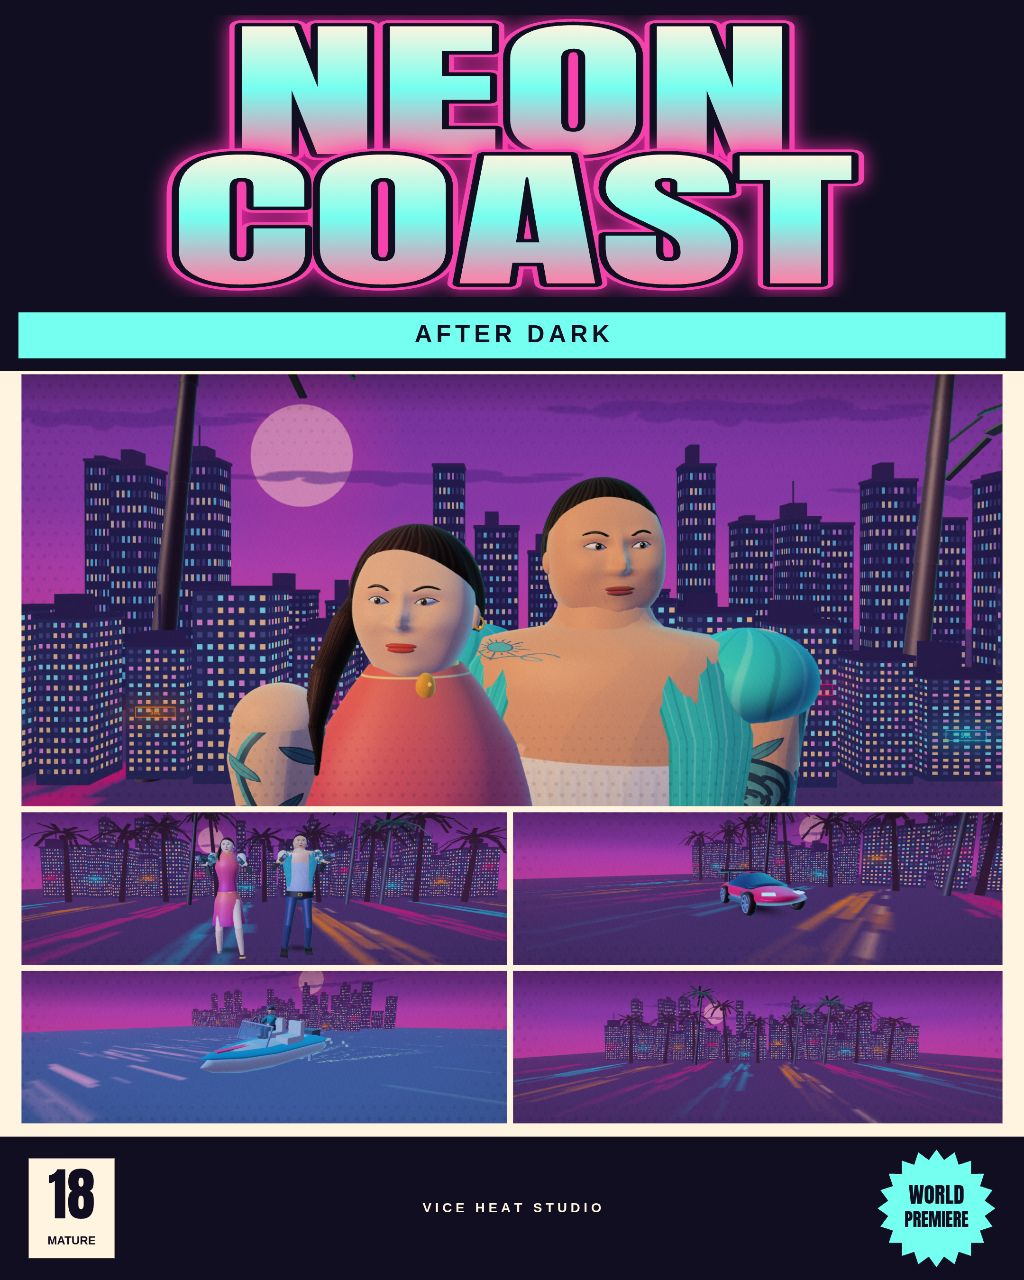
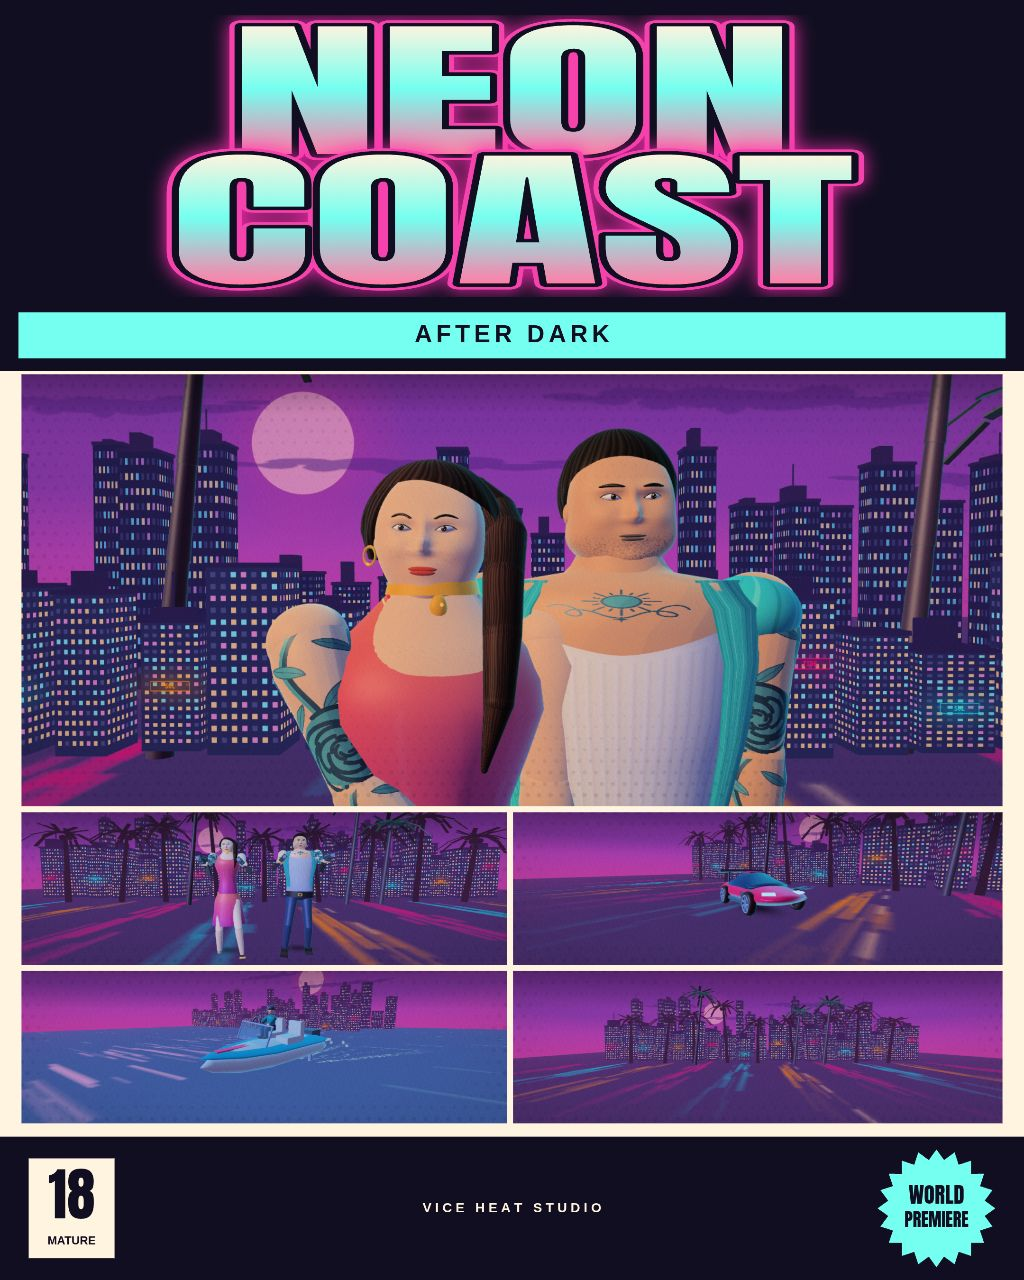
Round 9 fix: masculine read for the man (tank + draped shirt, stubble, darker lips), fuller hair and tailored dress for the woman, wider close-up framing

Changed region(s): [[0.0, 0.2812, 1.0, 0.6875]]

diff --git a/app/src/duo3d.js b/app/src/duo3d.js
@@ -8,7 +8,7 @@ const goldSpark = emissiveMaterial([1, 0.80, 0.39], 1.5);
 const fabric = { color: [1, 1, 1], band: 5, rimBoost: 1.1 };
 const MAT = {
   skin: { her: pigment(SKIN.her, 1.2), him: pigment(SKIN.him, 1.2) },
-  lip: { her: pigment([0.63, 0.19, 0.15]), him: pigment([0.38, 0.14, 0.12]) },
+  lip: { her: pigment([0.63, 0.19, 0.15]), him: pigment([0.245, 0.163, 0.131]) },
   hair: { her: pigment([0.11, 0.06, 0.05], 0.6), him: pigment([0.07, 0.05, 0.04], 0.6) },
   gold,
   gunmetal: { color: [0.15, 0.17, 0.22], rimBoost: 1.8 },
@@ -162,13 +162,11 @@ function chestTattooTexture(tone = SKIN.him) {
   return makeCanvas(1024, 1024, ctx => {
     ctx.scale(2, 2);
     paintSkin(ctx, tone);
-    // Front is U = 0.25. Arc-length V and the flipped canvas upload map
-    // chest y=1.392–1.502 to canvas rows ~356–193.
+    // Place the sun at front U = 0.25, above the tank scoop.
     ctx.save();
-    ctx.translate(256, 512 * 0.44);
-    ctx.scale(0.55, 0.55);
-    ctx.translate(-256, -512 * 0.44);
-    ctx.translate(0, 153);
+    ctx.translate(128, 211);
+    ctx.scale(0.46, 0.54);
+    ctx.translate(-128, -106);
     const x = 128;
     const y = 106;
     ctx.fillStyle = TEAL;
@@ -264,11 +262,12 @@ function skinTexture(tone, stubble = false) {
     };
     dots(26, 32, 85, 0.10, 0.12);
     dots(5400, 0.6, 2, 0.24, 0.23);
-    for (let i = 0; i < (stubble ? 3500 : 190); i++) {
+    for (let i = 0; i < (stubble ? 7800 : 190); i++) {
       const x = stubble ? random() * w : (0.14 + random() * 0.22) * w;
-      const y = (stubble ? 0.61 + random() * 0.27 : 0.49 + random() * 0.13) * h;
-      ctx.fillStyle = stubble ? 'rgba(47,29,27,0.20)' : 'rgba(112,54,36,0.24)';
-      ctx.fillRect(x, y, 0.7 + random(), 0.8 + random());
+      const y = (stubble ? 0.62 + random() * 0.26 : 0.49 + random() * 0.13) * h;
+      const density = stubble ? Math.min(1, (y / h - 0.62) * 18, (0.88 - y / h) * 22) : 1;
+      ctx.fillStyle = stubble ? `rgba(49,38,34,${0.57 * density})` : 'rgba(112,54,36,0.24)';
+      ctx.fillRect(x, y, 0.7 + random() * 1.4, 0.8 + random() * 1.4);
     }
   });
 }
@@ -385,15 +384,15 @@ function faceSurface(u, v, strongJaw) {
   const height = Math.cos(v), radial = Math.sin(v);
   const y = height * 0.55;
   const jaw = bump(0, y, 0, -0.32, 1, 0.17);
-  const x = Math.cos(u) * radial * (0.424 + jaw * (strongJaw ? 0.027 : -0.023));
+  const x = Math.cos(u) * radial * (0.424 + jaw * (strongJaw ? 0.084 : -0.023));
   const front = Math.sin(u);
   let z = radial * (front > 0 ? Math.pow(front, 0.54) : front) * 0.428;
   if (front > 0) {
     const a = Math.abs(x);
     z += front ** 2 * (
-      0.067 * bump(x, y, 0, -0.43, 0.18, 0.095) +
+      (strongJaw ? 0.092 : 0.067) * bump(x, y, 0, -0.43, strongJaw ? 0.24 : 0.18, 0.095) +
       0.046 * bump(a, y, 0.237, -0.105, 0.116, 0.084) +
-      0.032 * bump(a, y, 0.158, 0.117, 0.128, 0.047) -
+      (strongJaw ? 0.062 : 0.032) * bump(a, y, 0.158, 0.122, 0.128, 0.047) -
       0.043 * bump(a, y, 0.159, 0.052, 0.084, 0.053) +
       0.046 * bump(x, y, 0, 0.039, 0.042, 0.112) +
       0.111 * bump(x, y, 0, -0.069, 0.052, 0.060) +
@@ -440,11 +439,13 @@ function buildFace({ skin, lip, hair, brow, strongJaw = false }) {
     faceArc(head, eye, samples.map(t => almond(t, 1)), 0.0058);
     faceArc(head, lid, samples.map(t => almond(t, -1)), 0.0057);
     faceArc(head, brow ?? hair, samples.map(t => [x + side * 0.071 * t,
-      0.131 + 0.021 * (1 - (t - 0.17) ** 2), 0.439 - 0.042 * t - 0.016 * t*t]), 0.0087);
+      0.131 + (strongJaw ? 0.008 : 0.021) * (1 - (t - 0.17) ** 2),
+      (strongJaw ? 0.461 : 0.439) - 0.042 * t - 0.016 * t*t]), strongJaw ? 0.014 : 0.0087);
   }
-  part(head, sphere(0.087, 28, 18), lip, [0, -0.242, 0.416], [1.22, 0.23, 0.32]);
-  part(head, sphere(0.077, 28, 18), { ...lip, color: lip.color.map(v => v * 1.13) },
-    [0, -0.267, 0.415], [1.20, 0.29, 0.40]);
+  const mouth = strongJaw ? { ...lip, specMul: 0.17 } : lip;
+  part(head, sphere(0.087, 28, 18), mouth, [0, -0.242, 0.416], [1.22, strongJaw ? 0.16 : 0.23, 0.32]);
+  part(head, sphere(0.077, 28, 18), { ...mouth, color: mouth.color.map(v => v * 1.13) },
+    [0, -0.267, 0.415], [1.20, strongJaw ? 0.19 : 0.29, 0.40]);
   return head;
 }
 
@@ -535,13 +536,14 @@ function mountHead(root, face, y, scale, mountScale) {
 function hairCap(hair, woman) {
   const geo = sculptSphere(64, 30, (u, v) => {
     const front = Math.max(0, Math.sin(u));
-    const end = (woman ? 1.98 : 1.76) - (woman ? 1.05 : 0.89) * front ** 0.65 +
+    const end = (woman ? 1.98 : 1.81) - (woman ? 1.05 : 0.77) * front ** 0.65 +
       0.12 * front * Math.cos(u);
     const phi = v / Math.PI * end;
     const wave = 1 + 0.014 * Math.cos(u * 13 + phi * 4) * Math.sin(phi);
-    return [Math.cos(u) * Math.sin(phi) * (woman ? 0.485 : 0.452) * wave,
-      0.064 + Math.cos(phi) * (woman ? 0.547 : 0.515),
-      -0.023 + Math.sin(u) * Math.sin(phi) * (woman ? 0.52 : 0.49) * wave];
+    const fade = woman ? 1 : 1 - 0.065 * (v / Math.PI) ** 5 * (1 - front);
+    return [Math.cos(u) * Math.sin(phi) * (woman ? 0.555 : 0.505) * wave * fade,
+      0.064 + Math.cos(phi) * (woman ? 0.565 : 0.575),
+      -0.023 + Math.sin(u) * Math.sin(phi) * 0.55 * wave * fade];
   });
   // Open cap: restore the final ring, which sphere topology treats as a pole.
   const indices = Array.from(geo.indices);
@@ -568,10 +570,10 @@ function womanHair(head, hair) {
   const hairTex = texturedHair(hair);
   const cap = hairCap(hairTex, true);
   part(head, cap.geometry, cap.material);
-  const path = [[-0.18, 0.36, -0.31], [-0.38, 0.15, -0.25], [-0.49, -0.13, 0.05],
-    [-0.55, -0.47, 0.31], [-0.57, -0.78, 0.43], [-0.52, -1.08, 0.48]];
+  const path = [[0.29, 0.42, -0.28], [0.49, 0.25, -0.23], [0.58, 0.04, 0.065],
+    [0.59, -0.29, 0.42], [0.61, -0.68, 0.67], [0.61, -1.12, 0.83], [0.53, -1.55, 0.87]];
   part(head, torus(0.12, 0.018), gold, path[0], undefined, [Math.PI / 2, 0, 0]);
-  const radii = [0.11, 0.125, 0.118, 0.102, 0.071, 0.019];
+  const radii = [0.135, 0.156, 0.163, 0.151, 0.136, 0.104, 0.026];
   for (let i = 0; i < path.length - 1; i++) {
     const a = path[i];
     const b = path[i + 1];
@@ -595,11 +597,26 @@ function buildWoman() {
   const dress = { ...MAT.dress, tex: dressTexture() };
   part(hips, lathe([[0.27, -0.42], [0.255, -0.33], [0.230, -0.20], [0.218, -0.08],
     [0.196, 0.0], [0.168, 0.05], [0.160, 0.10]], 40), dress, [0, 0, 0], [1, 1, 0.80]);
-  part(root, lathe([[0.158, 1.00], [0.149, 1.08], [0.132, 1.16], [0.151, 1.24],
-    [0.178, 1.33], [0.199, 1.40], [0.190, 1.45], [0.168, 1.52], [0.128, 1.58],
-    [0.105, 1.615], [0.078, 1.650]], 40), dress, [0, 0, 0], [1, 1, 0.80]);
+  const bodice = [[0.158, 1.00], [0.141, 1.11], [0.127, 1.19], [0.137, 1.27],
+    [0.172, 1.36], [0.200, 1.44], [0.195, 1.50], [0.170, 1.555], [0.119, 1.605],
+    [0.076, 1.650]];
+  const neckline = (u) => 0.072 * Math.max(0, Math.sin(u)) ** 1.4;
+  const dressGeo = lathe(bodice, 64);
+  for (let i = 0; i < dressGeo.positions.length / 3; i++) {
+    const u = dressGeo.uvs[i * 2] * TAU;
+    const level = Math.max(0, (dressGeo.positions[i * 3 + 1] - 1.43) / 0.22);
+    dressGeo.positions[i * 3 + 1] -= neckline(u) * level;
+  }
+  part(root, dressGeo, dress, [0, 0, 0.008], [1, 1, 0.84]);
+  part(root, lathe([[0.181, 1.46], [0.174, 1.52], [0.139, 1.565], [0.074, 1.650]], 48),
+    skin, [0, 0, 0], [1, 1, 0.85]);
+  const binding = lathe([[0.085, 1.636], [0.079, 1.650]], 64);
+  for (let i = 0; i < binding.positions.length / 3; i++) {
+    binding.positions[i * 3 + 1] -= neckline(binding.uvs[i * 2] * TAU);
+  }
+  part(root, binding, pigment([0.71, 0.13, 0.24]), [0, 0, 0.009], [1, 1, 0.85]);
   part(root, cylinder(0.056, 0.072, 0.13), skin, [0, 1.655, 0]);
-  part(root, cylinder(0.065, 0.069, 0.021, 40, true), gold, [0, 1.660, 0]);
+  part(root, cylinder(0.079, 0.085, 0.025, 48, true), gold, [0, 1.656, 0.005]);
   part(root, sphere(0.018), gold, [0, 1.622, 0.080], [0.85, 1.25, 0.62]);
   part(root, sphere(0.0038), goldSpark, [-0.009, 1.661, 0.066]);
   part(root, sphere(0.0033), goldSpark, [0.004, 1.628, 0.091]);
@@ -607,9 +624,9 @@ function buildWoman() {
   mountHead(root, head, 1.740, 0.96, 0.238);
   womanHair(head, hair);
   for (const side of [-1, 1]) {
-    part(head, torus(0.035, 0.008), gold, [side * 0.461, -0.091, 0.025],
-      [0.86, 1.18, 1], [0, side * 0.45, 0]);
-    part(head, sphere(0.010), goldSpark, [side * 0.469, -0.115, 0.042]);
+    part(head, torus(0.061, 0.011), gold, [side * 0.479, -0.139, 0.064],
+      [0.84, 1.18, 1], [0, side * 0.30, 0]);
+    part(head, sphere(0.012), goldSpark, [side * 0.489, -0.203, 0.079]);
   }
   const sleeve = { ...fabric, rimBoost: 1.2, tex: sleeveTattooTexture(SKIN.her) };
   const armR = makeArm(root, [-0.215, 1.565, 0], 0.070, [0.27, 0.25], skin, sleeve);
@@ -638,16 +655,16 @@ function shirtTexture() {
 
 function shirtPanel(side) {
   // The inner edge hangs open; the outer edge curves around the ribs.
-  const rings = [[1.10, 0.158, 0.219, 0.105], [1.23, 0.134, 0.218, 0.136],
-    [1.37, 0.136, 0.256, 0.162], [1.52, 0.137, 0.282, 0.188],
-    [1.62, 0.105, 0.288, 0.173], [1.665, 0.115, 0.254, 0.129]];
+  const rings = [[1.10, 0.149, 0.219, 0.133], [1.23, 0.157, 0.219, 0.122],
+    [1.37, 0.174, 0.250, 0.148], [1.52, 0.180, 0.278, 0.161],
+    [1.62, 0.158, 0.288, 0.169], [1.67, 0.132, 0.248, 0.134]];
   const positions = [], normals = [], uvs = [], indices = [];
   for (let i = 0; i < rings.length; i++) for (let j = 0; j <= 12; j++) {
     const [y, inner, outer, z] = rings[i], t = j / 12;
     const wave = Math.sin(t * TAU * 2.2 + y * 8);
     const fold = 0.010 * wave * Math.sin(t * Math.PI);
-    positions.push(side * (inner + (outer - inner) * t), y, z - 0.135 * t ** 1.8 + fold);
-    const nx = side * (0.6 * t + 0.075 * wave);
+    positions.push(side * (inner + (outer - inner) * t), y, z - 0.106 * t ** 1.5 + fold);
+    const nx = side * (0.74 * t + 0.12 * wave);
     normals.push(nx, 0, Math.sqrt(1 - nx * nx));
     uvs.push(t, i / (rings.length - 1));
     if (i && j) {
@@ -672,16 +689,31 @@ function buildMan() {
     [0, 0, 0], [1, 1, 0.76]);
   part(hips, box(0.070, 0.042, 0.016), gold, [0, 0.02, 0.181]);
   part(hips, box(0.045, 0.023, 0.008), belt, [0, 0.02, 0.191]);
-  const tank = { ...MAT.tank, tex: tankTexture() };
+  const tank = { ...MAT.tank, tex: tankTexture(), band: 0, specMul: 0.22 };
   const chest = { ...fabric, rimBoost: 1.2, tex: chestTattooTexture() };
-  part(root, lathe([[0.212, 1.03], [0.200, 1.12], [0.198, 1.22], [0.228, 1.34],
-    [0.252, 1.43], [0.258, 1.48]], 40), tank, [0, 0, 0], [1, 1, 0.77]);
-  part(root, lathe([[0.252, 1.46], [0.262, 1.52], [0.266, 1.58], [0.258, 1.63],
-    [0.228, 1.665], [0.110, 1.685], [0.095, 1.700], [0.082, 1.725]], 40), chest, [0, 0, 0], [1, 1, 0.77]);
+  const chestProfile = [[0.228, 1.34], [0.252, 1.43], [0.262, 1.52], [0.266, 1.58],
+    [0.258, 1.63], [0.228, 1.665], [0.110, 1.685], [0.095, 1.700], [0.082, 1.725]];
+  part(root, lathe(chestProfile, 64), chest, [0, 0, 0], [1, 1, 0.77]);
+  const tankGeo = lathe([[0.212, 1.03], [0.200, 1.12], [0.198, 1.22],
+    ...chestProfile.slice(0, 3), [0.262, 1.53], [0.263, 1.54]], 64);
+  for (let i = 0; i < tankGeo.positions.length / 3; i++) {
+    const k = 3 * i, u = tankGeo.uvs[i * 2] * TAU;
+    const y = tankGeo.positions[k + 1];
+    const scoop = 0.084 * Math.abs(Math.cos(u)) ** 1.6 * Math.max(0, (y - 1.43) / 0.11);
+    const height = y + scoop;
+    const segment = chestProfile.findIndex(([, level]) => level >= height);
+    let r = Math.hypot(tankGeo.positions[k], tankGeo.positions[k + 2]);
+    if (segment > 0) {
+      const [a, low] = chestProfile[segment - 1], [b, high] = chestProfile[segment];
+      r = a + (b - a) * (height - low) / (high - low);
+    }
+    tankGeo.positions.set([(r + 0.006) * Math.cos(u), height, (r + 0.006) * Math.sin(u)], k);
+  }
+  part(root, tankGeo, tank, [0, 0, 0], [1, 1, 0.77]);
   const shirt = { ...MAT.shirt, color: [1, 1, 1], tex: shirtTexture(), band: 0, specMul: 0.3 };
   for (const side of [-1, 1]) {
     part(root, shirtPanel(side), shirt);
-    part(root, sphere(0.103), shirt, [side * 0.253, 1.602, 0], [1.10, 0.82, 1.31]);
+    part(root, sphere(0.096), shirt, [side * 0.254, 1.606, 0.008], [1.01, 0.78, 1.04]);
   }
   part(root, cylinder(0.075, 0.095, 0.14), skin, [0, 1.715, 0]);
   const head = buildFace({ skin: faceSkin.him, lip: MAT.lip.him, hair, brow: hair, strongJaw: true });
@@ -763,12 +795,17 @@ function poseAction(woman, man) {
 }
 
 function poseCloseup(woman, man) {
-  woman.root.p = [-0.156, 0, 0.07];
-  woman.root.r = [0, 0.30, 0];
-  woman.joints.head.r = [-0.025, -0.40, -0.035];
-  man.root.p = [0.167, 0.019, -0.065];
-  man.root.r = [0, -0.32, 0];
-  man.joints.head.r = [0.028, 0.45, 0.025];
+  woman.root.p = [-0.177, 0.021, 0.07];
+  woman.root.r = [0, 0.23, 0];
+  woman.joints.head.r = [-0.025, -0.28, -0.035];
+  woman.joints.armR.sh.r = [-0.32, 0, 0.34];
+  woman.joints.armR.el.r = [-0.16, 0, 0.36];
+  for (const mesh of woman.joints.armR.sh.children) {
+    if (mesh.geometry) mesh.fitBust = true;
+  }
+  man.root.p = [0.179, 0.019, -0.087];
+  man.root.r = [0, -0.12, 0];
+  man.joints.head.r = [0.028, 0.22, 0.025];
 }
 
 function addContactShadows(scene, ...characters) {
@@ -1208,7 +1245,7 @@ function seaplane() {
 const CAMERAS = {
   duo: { pos: [0, 1.30, 4.9], target: [0, 0.98, 0], fov: 38 },
   'duo-action': { pos: [0, 1.25, 4.2], target: [0, 1, 0], fov: 40 },
-  closeup: { pos: [0, 1.775, 0.77], target: [0, 1.770, 0], fov: 34, near: 0.04 },
+  closeup: { pos: [-0.035, 1.69, 0.94], target: [-0.035, 1.67, 0], fov: 34, near: 0.04 },
   'qa-her': { pos: [0, 1.70, 1.45], target: [0, 1.62, 0], fov: 36 },
   'qa-him': { pos: [0, 1.82, 1.50], target: [0, 1.74, 0], fov: 36 },
   'qa-duo': { pos: [0, 1.45, 3.05], target: [0, 1.22, 0], fov: 37 },
@@ -1326,7 +1363,7 @@ function framedCamera(root, base, aspect) {
     m = mat4RotateX(m, n.r[0]); m = mat4RotateY(m, n.r[1]); m = mat4RotateZ(m, n.r[2]);
     m = mat4Scale(m, ...(typeof n.s === 'number' ? [n.s, n.s, n.s] : n.s));
     m = mat4Multiply(parent, m);
-    if (n.geometry && (inHead || !root.fitHeads)) for (let i = 0; i < n.geometry.positions.length; i += 3) {
+    if (n.geometry && (inHead || !root.fitHeads || n.fitBust)) for (let i = 0; i < n.geometry.positions.length; i += 3) {
       const p = transformPoint(m, ...n.geometry.positions.subarray(i, i + 3));
       points.push([...transformPoint(view, ...p), inHead]);
     }
